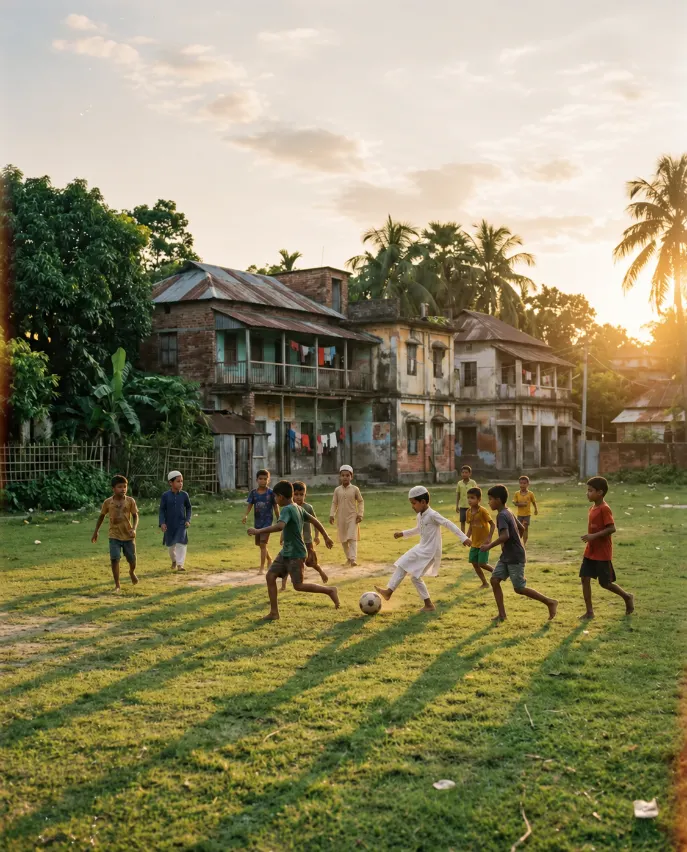
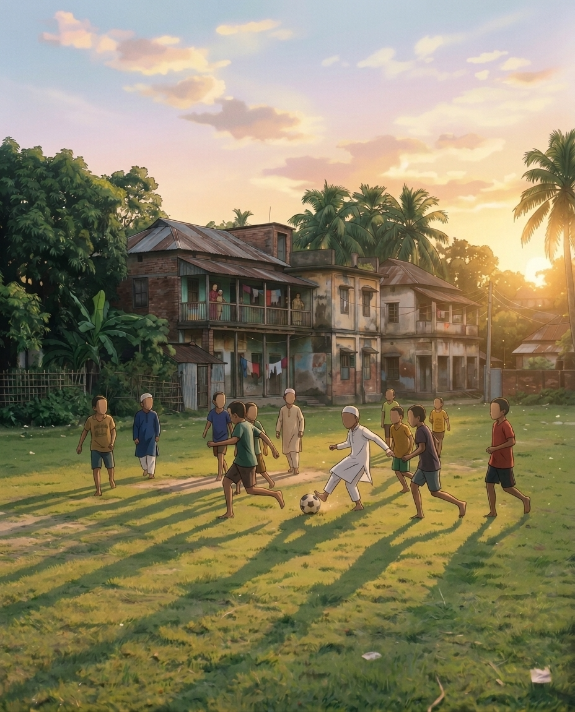
price removed and added to top btn

diff --git a/components/BackToTop.module.css b/components/BackToTop.module.css
@@ -1,0 +1,160 @@
+.button {
+  position: fixed;
+  right: 1.25rem;
+  right: max(1.25rem, env(safe-area-inset-right));
+  bottom: 1.25rem;
+  bottom: max(1.25rem, calc(1rem + env(safe-area-inset-bottom)));
+  z-index: 40;
+  display: grid;
+  place-items: center;
+  width: 3.25rem;
+  height: 3.25rem;
+  padding: 0;
+  border: 1px solid rgb(201 165 92 / 0.42);
+  border-radius: 999px;
+  background:
+    radial-gradient(circle at 32% 24%, rgb(255 255 255 / 0.16), transparent 38%),
+    linear-gradient(150deg, var(--color-accent-700) 0%, var(--color-band) 70%);
+  color: var(--color-gold-400);
+  box-shadow:
+    0 12px 28px rgb(10 23 48 / 0.26),
+    0 2px 8px rgb(10 23 48 / 0.16),
+    inset 0 1px 0 rgb(255 255 255 / 0.12);
+  cursor: pointer;
+  opacity: 0;
+  visibility: hidden;
+  transform: translateY(0.7rem) scale(0.94);
+  transition:
+    opacity 0.24s ease,
+    transform 0.24s ease,
+    visibility 0.24s,
+    border-color 0.18s,
+    box-shadow 0.18s;
+  -webkit-tap-highlight-color: transparent;
+}
+
+.button.visible {
+  opacity: 1;
+  visibility: visible;
+  transform: translateY(0) scale(1);
+}
+
+.button:hover {
+  border-color: rgb(201 165 92 / 0.82);
+  box-shadow:
+    0 16px 34px rgb(10 23 48 / 0.32),
+    0 0 0 4px rgb(201 165 92 / 0.08),
+    0 2px 8px rgb(10 23 48 / 0.18),
+    inset 0 1px 0 rgb(255 255 255 / 0.14);
+}
+
+@media (prefers-reduced-motion: no-preference) {
+  .button.visible:hover {
+    transform: translateY(-2px) scale(1.03);
+  }
+}
+
+.button.visible:active {
+  transform: translateY(0) scale(0.97);
+}
+
+.progress {
+  position: absolute;
+  inset: 0;
+  width: 100%;
+  height: 100%;
+  transform: rotate(-90deg);
+  pointer-events: none;
+}
+
+.track,
+.indicator {
+  fill: none;
+  stroke-width: 2.25;
+}
+
+.track {
+  stroke: rgb(201 165 92 / 0.18);
+}
+
+.indicator {
+  stroke: var(--color-gold-400);
+  stroke-linecap: round;
+  stroke-dasharray: 100;
+  stroke-dashoffset: 100;
+  transition: stroke-dashoffset 0.12s linear;
+}
+
+.icon {
+  position: relative;
+  z-index: 1;
+  display: grid;
+  place-items: center;
+}
+
+.label {
+  position: absolute;
+  top: 50%;
+  right: calc(100% + 0.8rem);
+  padding: 0.4rem 0.8rem;
+  border: 1px solid rgb(201 165 92 / 0.3);
+  border-radius: 999px;
+  background: var(--color-band);
+  color: var(--color-on-dark);
+  box-shadow: 0 10px 24px rgb(10 23 48 / 0.2);
+  font-size: var(--text-label);
+  font-weight: 500;
+  line-height: 1.4;
+  white-space: nowrap;
+  pointer-events: none;
+  opacity: 0;
+  transform: translate(0.35rem, -50%);
+  transition:
+    opacity 0.16s ease,
+    transform 0.16s ease;
+}
+
+@media (hover: hover) and (pointer: fine) {
+  .button:hover .label,
+  .button:focus-visible .label {
+    opacity: 1;
+    transform: translate(0, -50%);
+  }
+}
+
+@media (hover: none), (pointer: coarse) {
+  .label {
+    display: none;
+  }
+}
+
+@media (max-width: 48rem) {
+  .button {
+    width: 3rem;
+    height: 3rem;
+  }
+}
+
+@media (prefers-reduced-motion: reduce) {
+  .button {
+    transition:
+      opacity 0.01ms,
+      visibility 0.01ms;
+  }
+
+  .button.visible,
+  .button.visible:hover,
+  .button.visible:active {
+    transform: none;
+  }
+
+  .indicator {
+    transition: none;
+  }
+}
+
+@media print {
+  .button {
+    display: none !important;
+  }
+}

diff --git a/components/BackToTop.tsx b/components/BackToTop.tsx
@@ -1,0 +1,76 @@
+"use client";
+
+import { useEffect, useRef, useState } from "react";
+import { Icon } from "./Icon";
+import styles from "./BackToTop.module.css";
+
+export function BackToTop() {
+  const [visible, setVisible] = useState(false);
+  const ringRef = useRef<SVGCircleElement>(null);
+  const visibleRef = useRef(false);
+
+  useEffect(() => {
+    let frame = 0;
+
+    const update = () => {
+      frame = 0;
+      const doc = document.documentElement;
+      const scrollY = window.scrollY;
+      const max = doc.scrollHeight - window.innerHeight;
+      const progress = max > 0 ? Math.min(1, Math.max(0, scrollY / max)) : 0;
+
+      if (ringRef.current) {
+        ringRef.current.style.setProperty("stroke-dashoffset", String(100 - progress * 100));
+      }
+
+      const showAfter = Math.max(480, window.innerHeight * 0.55);
+      const nearBottom = scrollY + window.innerHeight > doc.scrollHeight - 220;
+      const next = scrollY > showAfter && !nearBottom;
+
+      if (next !== visibleRef.current) {
+        visibleRef.current = next;
+        setVisible(next);
+      }
+    };
+
+    const onScroll = () => {
+      if (frame) return;
+      frame = window.requestAnimationFrame(update);
+    };
+
+    update();
+    window.addEventListener("scroll", onScroll, { passive: true });
+    window.addEventListener("resize", onScroll);
+
+    return () => {
+      if (frame) window.cancelAnimationFrame(frame);
+      window.removeEventListener("scroll", onScroll);
+      window.removeEventListener("resize", onScroll);
+    };
+  }, []);
+
+  function scrollToTop() {
+    const reduce = window.matchMedia("(prefers-reduced-motion: reduce)").matches;
+    window.scrollTo({ top: 0, behavior: reduce ? "auto" : "smooth" });
+  }
+
+  return (
+    <button
+      type="button"
+      className={`${styles.button} ${visible ? styles.visible : ""}`}
+      onClick={scrollToTop}
+      aria-label="উপরে ফিরে যান"
+    >
+      <svg className={styles.progress} viewBox="0 0 100 100" aria-hidden="true">
+        <circle className={styles.track} cx="50" cy="50" r="47" pathLength="100" />
+        <circle ref={ringRef} className={styles.indicator} cx="50" cy="50" r="47" pathLength="100" />
+      </svg>
+      <span className={styles.icon} aria-hidden="true">
+        <Icon name="arrow-up" size={22} />
+      </span>
+      <span className={styles.label} aria-hidden="true">
+        উপরে ফিরে যান
+      </span>
+    </button>
+  );
+}

diff --git a/app/(site)/counseling/page.tsx b/app/(site)/counseling/page.tsx
@@ -27,7 +27,6 @@ const sessions = [
     name: "সংক্ষিপ্ত সেশন",
     mode: { icon: "video", label: "অনলাইন" },
     duration: "৩০ মিনিট",
-    price: "৳১,৫০০",
     features: ["একটি নির্দিষ্ট বিষয়ে পরামর্শ", "ভিডিও বা অডিও কলে"],
     subject: "সেশন বুকিং: সংক্ষিপ্ত সেশন",
     featured: false,
@@ -36,7 +35,6 @@ const sessions = [
     name: "পূর্ণাঙ্গ সেশন",
     mode: { icon: "video", label: "অনলাইন" },
     duration: "৬০ মিনিট",
-    price: "৳২,৫০০",
     features: ["বিস্তারিত আলোচনা", "দম্পতি একসাথে অংশ নিতে পারবেন"],
     subject: "সেশন বুকিং: পূর্ণাঙ্গ সেশন",
     featured: true,
@@ -45,7 +43,6 @@ const sessions = [
     name: "সরাসরি সাক্ষাৎ",
     mode: { icon: "map-pin", label: "সরাসরি" },
     duration: "৬০ মিনিট",
-    price: "৳৩,৫০০",
     features: ["মুখোমুখি আলোচনা", "পারিবারিক সেশনের সুযোগ"],
     subject: "সেশন বুকিং: সরাসরি সাক্ষাৎ",
     featured: false,
@@ -132,9 +129,6 @@ export default function CounselingPage() {
                     <Icon name="clock" size={20} />
                     {session.duration}
                   </span>
-                </p>
-                <p className={styles.price}>
-                  <strong>{session.price}</strong> <span>/ সেশন</span>
                 </p>
                 <ul className="checklist">
                   {session.features.map((feature) => (

diff --git a/app/(site)/counseling/counseling.module.css b/app/(site)/counseling/counseling.module.css
@@ -116,29 +116,6 @@
   font-size: var(--text-h4);
 }
 
-.price {
-  display: flex;
-  align-items: flex-end;
-  gap: var(--space-2);
-  padding-block: var(--space-2);
-  padding-bottom: var(--space-5);
-  border-bottom: 1px solid var(--color-line);
-}
-
-.price strong {
-  color: var(--color-ink-900);
-  font-size: clamp(2.5rem, 2rem + 1.5vw, 3.25rem);
-  font-weight: 600;
-  line-height: 1.28;
-  letter-spacing: -0.01em;
-}
-
-.price span {
-  padding-bottom: 0.5rem;
-  color: var(--color-ink-500);
-  font-size: var(--text-meta);
-}
-
 .session :global(.checklist) {
   flex: 1;
   align-content: start;
@@ -151,18 +128,12 @@
   color: var(--color-on-dark);
 }
 
-.featured h3,
-.featured .price strong {
+.featured h3 {
   color: var(--color-on-dark);
 }
 
-.featured :global(.meta-row),
-.featured .price span {
+.featured :global(.meta-row) {
   color: var(--color-on-dark-muted);
-}
-
-.featured .price {
-  border-bottom-color: rgb(255 255 255 / 0.18);
 }
 
 .featured :global(.checklist svg) {

diff --git a/app/(site)/layout.tsx b/app/(site)/layout.tsx
@@ -1,3 +1,4 @@
+import { BackToTop } from "@/components/BackToTop";
 import { ContactModal } from "@/components/ContactModal";
 import { Footer } from "@/components/Footer";
 import { Header } from "@/components/Header";
@@ -13,6 +14,7 @@ export default function SiteLayout({ children }: { children: React.ReactNode }) 
         {children}
       </main>
       <Footer />
+      <BackToTop />
       <ContactModal />
     </>
   );
